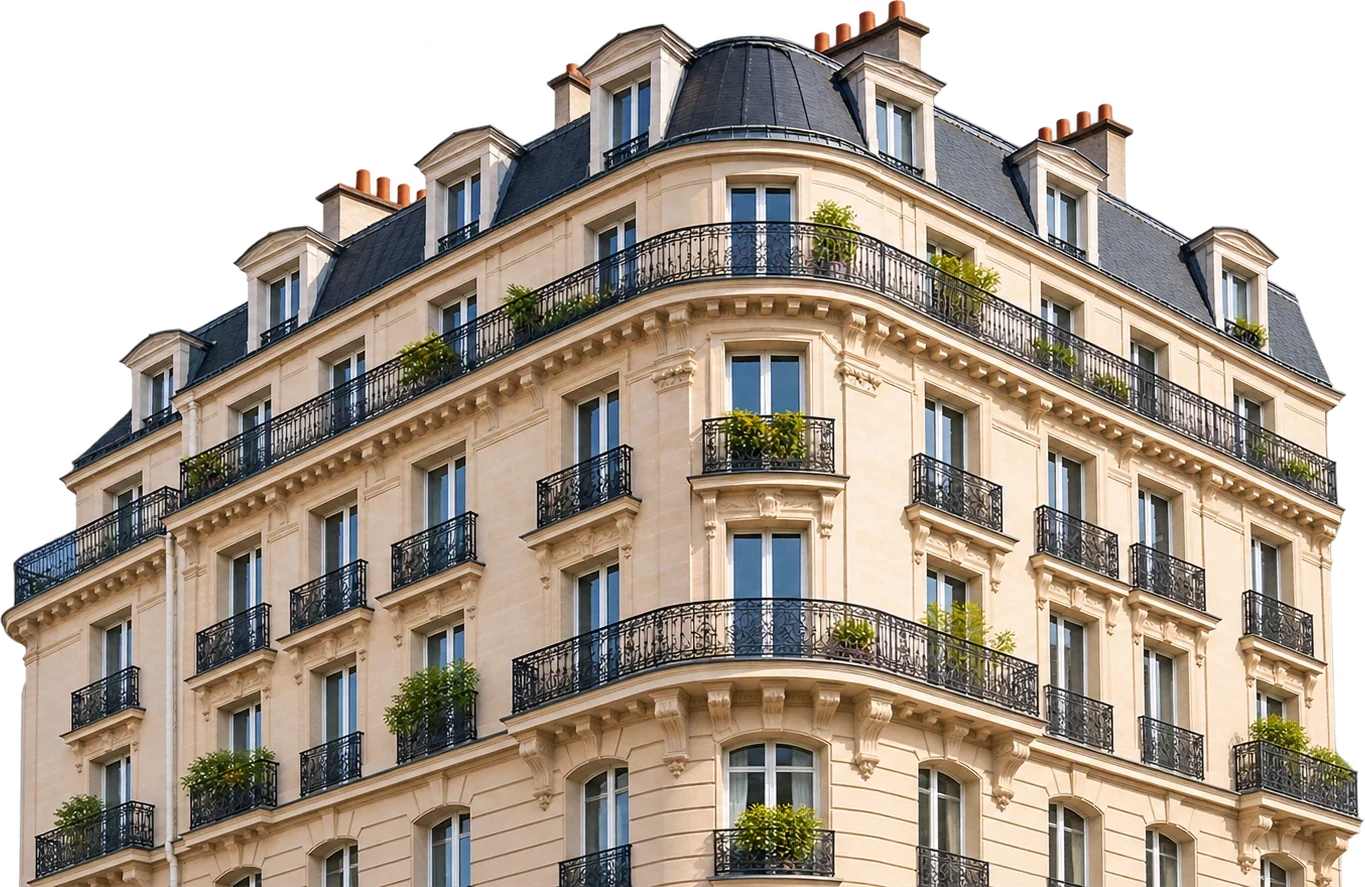
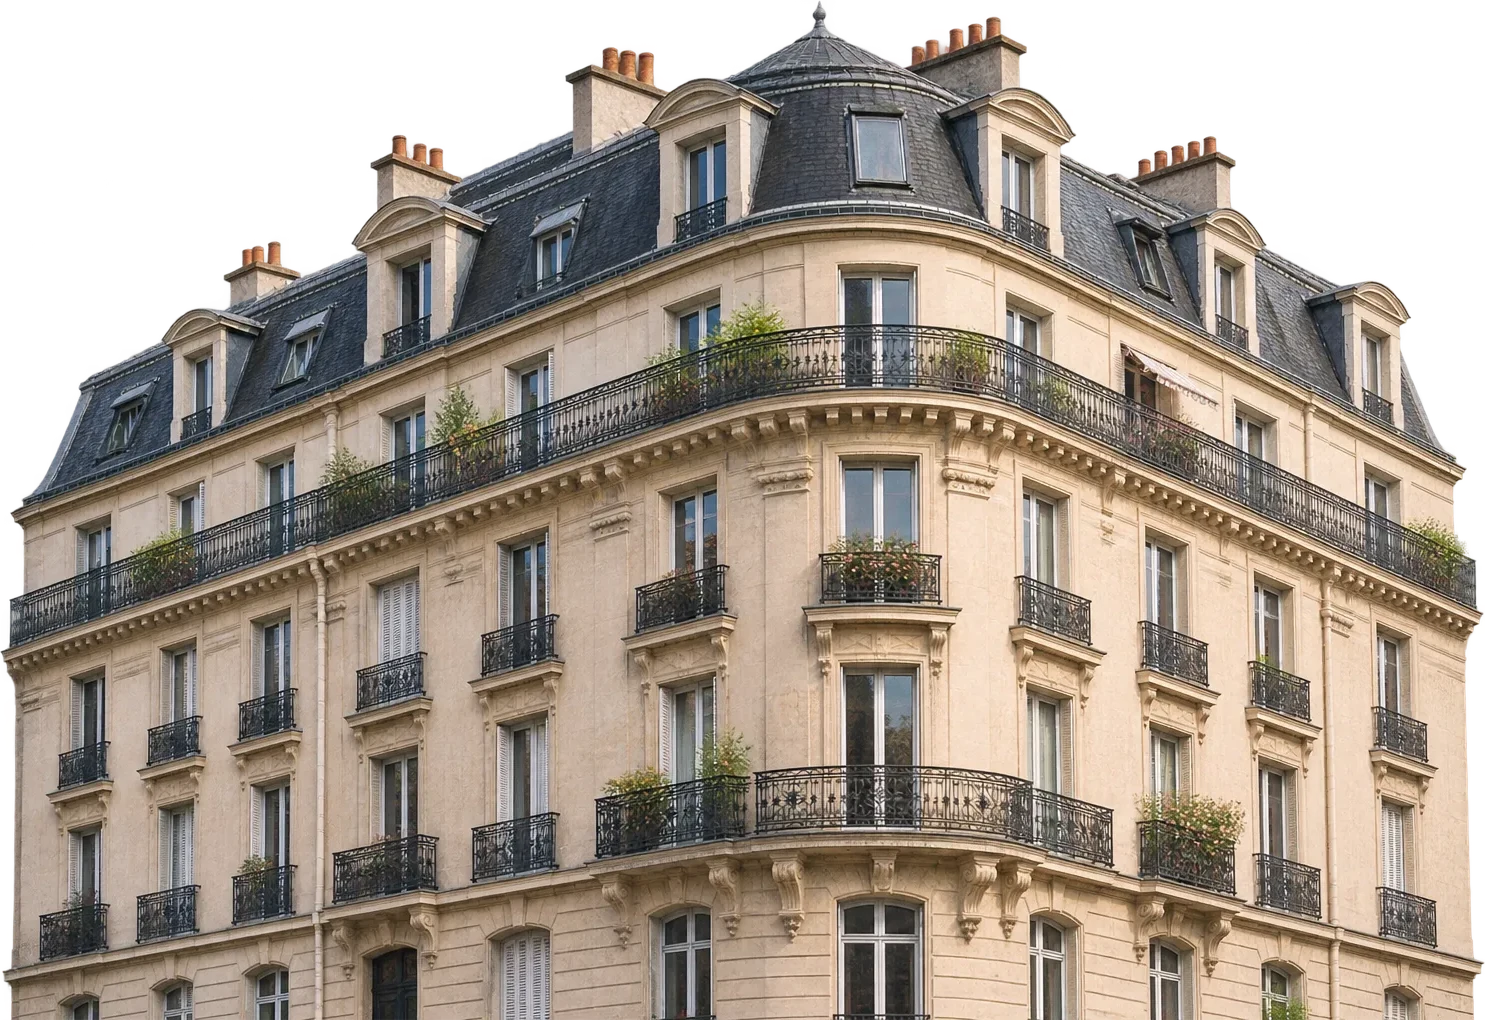
Hero : nouvelle photo d'immeuble haussmannien détourée

diff --git a/components/sections/HeroSection.tsx b/components/sections/HeroSection.tsx
@@ -37,7 +37,7 @@ export function HeroSection() {
         <TestezCTA />
       </div>
       {/* eslint-disable-next-line @next/next/no-img-element */}
-      <img className="hz-building" src="/hero-building.webp" alt="" width={1365} height={887} decoding="async" />
+      <img className="hz-building" src="/hero-building.webp" alt="" width={1485} height={1020} decoding="async" />
     </section>
   );
 }
